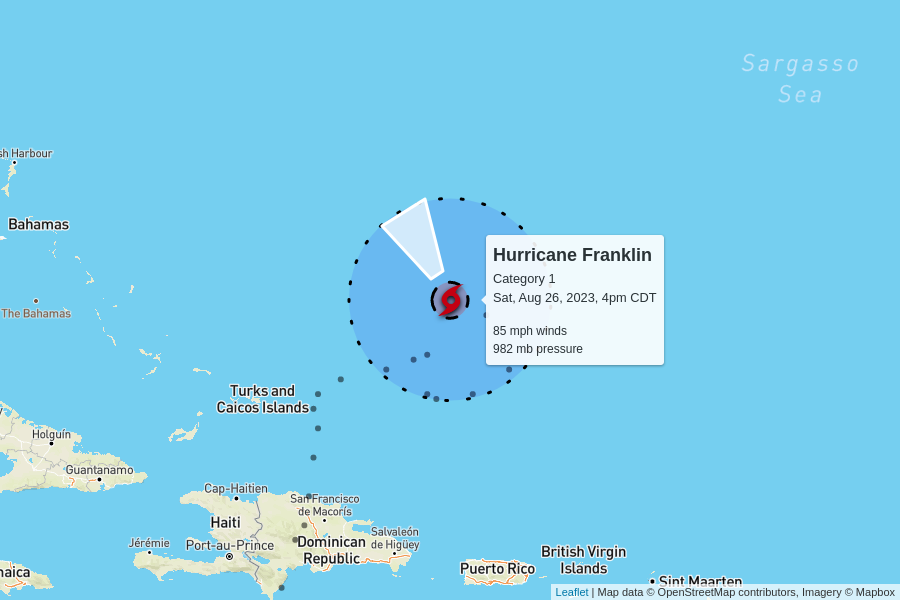
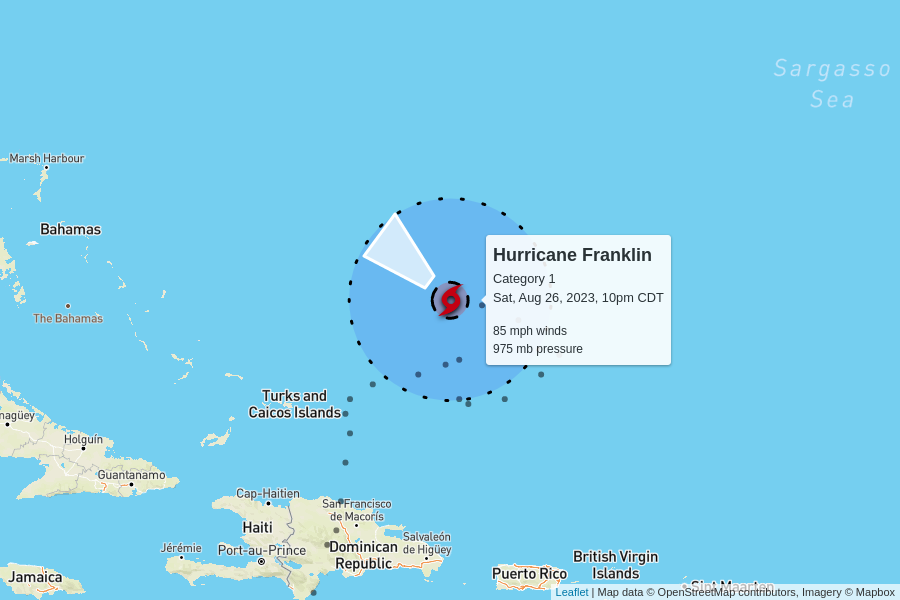
automatic update

diff --git a/docs/index.html b/docs/index.html
@@ -97,54 +97,10 @@
 
     <table>
       <tr>
-        <td colspan="6" class="storm category-0" >
-          <h2>
-            Tropical Depression Ten
-            <p class="updated">last updated <span data-time>2023-08-27T00:00:00.000Z</span></p>
-          </h2>
-        </td>
-      </tr>
-      
-      <tr>
-        <th class="spacer"></th>
-        <th>wind speed</th>
-        <th>central pressure</th>
-        <th>movement</th>
-        <th>data (CSV)</th>
-        <th>National Hurricane Center</th>
-      </tr>
-      <tr>
-        <td class="spacer"></td>
-        <td>30 mph</td>
-        <td>1005 mb</td>
-        <td>
-          1 mph to the northwest
-          <br/>
-          <span style="display: inline-block; font-size: 1.5em; transform: rotate(315deg);">↑</span>
-        </td>
-        <td><a href="https://raw.githubusercontent.com/mgwalker/atlantic-hurricanes/main/data/csv/AL102023.csv">AL102023.csv</a></td>
-        <td><a href="https://www.nhc.noaa.gov/archive/2023/TEN.shtml?">NHC advisories</a></td>
-      </tr>
-      <tr id="storm_AL102023" >
-        <td class="spacer">
-        <td colspan="5">
-          <figure>
-            <img src="AL102023.png">
-            <figcaption>
-              Map data &copy; <a href="https://www.openstreetmap.org/copyright">OpenStreetMap</a> contributors,
-              Imagery &copy; <a href="https://www.mapbox.com/">Mapbox</a> |
-              <a href="https://www.mapbox.com/map-feedback/" target="_blank">Improve this map</a>
-            </figcaption>
-          </figure>
-        </td>
-      </tr>
-      
-
-      <tr>
         <td colspan="6" class="storm category-1" >
           <h2>
             Hurricane Franklin - Category 1
-            <p class="updated">last updated <span data-time>2023-08-26T21:00:00.000Z</span></p>
+            <p class="updated">last updated <span data-time>2023-08-27T03:00:00.000Z</span></p>
           </h2>
         </td>
       </tr>
@@ -160,11 +116,11 @@
       <tr>
         <td class="spacer"></td>
         <td>85 mph</td>
-        <td>982 mb</td>
+        <td>975 mb</td>
         <td>
-          8 mph to the north-northwest
+          8 mph to the northwest
           <br/>
-          <span style="display: inline-block; font-size: 1.5em; transform: rotate(330deg);">↑</span>
+          <span style="display: inline-block; font-size: 1.5em; transform: rotate(310deg);">↑</span>
         </td>
         <td><a href="https://raw.githubusercontent.com/mgwalker/atlantic-hurricanes/main/data/csv/AL082023.csv">AL082023.csv</a></td>
         <td><a href="https://www.nhc.noaa.gov/archive/2023/FRANKLIN.shtml?">NHC advisories</a></td>
@@ -174,6 +130,50 @@
         <td colspan="5">
           <figure>
             <img src="AL082023.png">
+            <figcaption>
+              Map data &copy; <a href="https://www.openstreetmap.org/copyright">OpenStreetMap</a> contributors,
+              Imagery &copy; <a href="https://www.mapbox.com/">Mapbox</a> |
+              <a href="https://www.mapbox.com/map-feedback/" target="_blank">Improve this map</a>
+            </figcaption>
+          </figure>
+        </td>
+      </tr>
+      
+
+      <tr>
+        <td colspan="6" class="storm category-0" >
+          <h2>
+            Tropical Depression Ten
+            <p class="updated">last updated <span data-time>2023-08-27T03:00:00.000Z</span></p>
+          </h2>
+        </td>
+      </tr>
+      
+      <tr>
+        <th class="spacer"></th>
+        <th>wind speed</th>
+        <th>central pressure</th>
+        <th>movement</th>
+        <th>data (CSV)</th>
+        <th>National Hurricane Center</th>
+      </tr>
+      <tr>
+        <td class="spacer"></td>
+        <td>35 mph</td>
+        <td>1005 mb</td>
+        <td>
+          2 mph to the southwest
+          <br/>
+          <span style="display: inline-block; font-size: 1.5em; transform: rotate(230deg);">↑</span>
+        </td>
+        <td><a href="https://raw.githubusercontent.com/mgwalker/atlantic-hurricanes/main/data/csv/AL102023.csv">AL102023.csv</a></td>
+        <td><a href="https://www.nhc.noaa.gov/archive/2023/TEN.shtml?">NHC advisories</a></td>
+      </tr>
+      <tr id="storm_AL102023" >
+        <td class="spacer">
+        <td colspan="5">
+          <figure>
+            <img src="AL102023.png">
             <figcaption>
               Map data &copy; <a href="https://www.openstreetmap.org/copyright">OpenStreetMap</a> contributors,
               Imagery &copy; <a href="https://www.mapbox.com/">Mapbox</a> |
